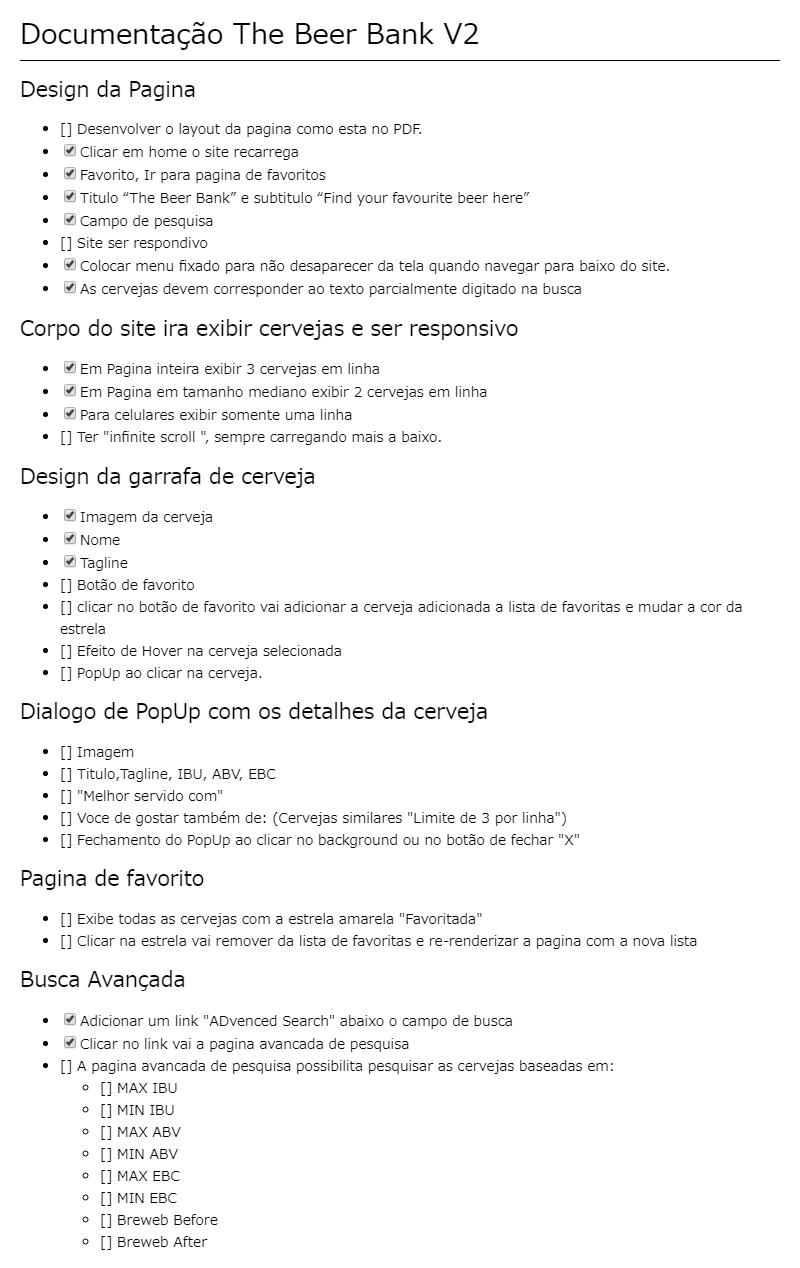
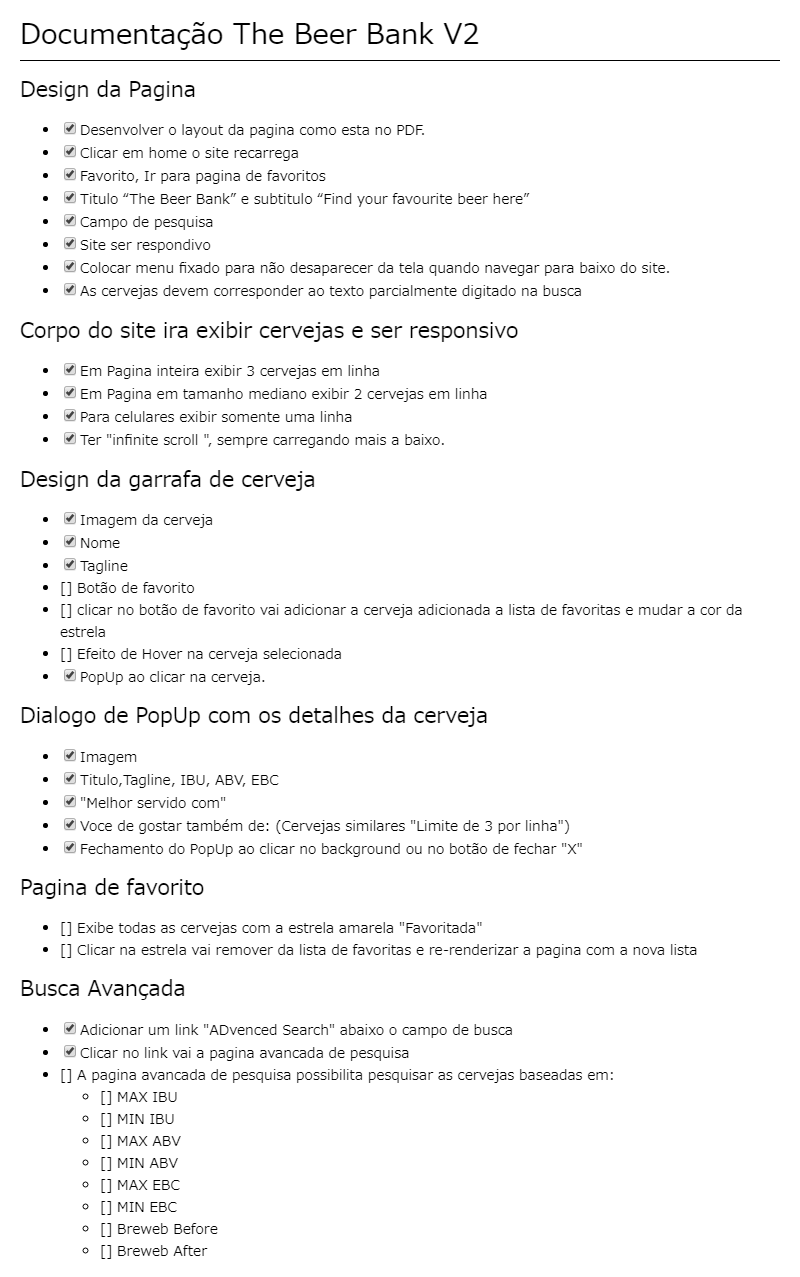
changes

diff --git a/js/script.js b/js/script.js
@@ -1,3 +1,29 @@
+var listaFovoritos = [];
+function addFavo(elemento) {
+	if(typeof(Storage) !== "undefined") {
+		if (sessionStorage.lista) {
+			listaFovoritos = JSON.parse(
+				sessionStorage.getItem("listaFovoritos"));
+		} else {
+			listaFovoritos = [];
+		}		
+			if(listaFovoritos.includes(elemento)){
+				listaFovoritos.splice(listaFovoritos.indexOf(elemento),1);
+			}else{
+				listaFovoritos.push(elemento)
+			}			
+			
+		sessionStorage.listaFovoritos = JSON.stringify(listaFovoritos);
+	}
+}
+
+
+
+var fav = listaFovoritos.filter(function id (){
+	return listaFovoritos.includes9item.id
+});
+
+
 const todasCervejas = [];
 var i = 2;
 /*
@@ -50,7 +76,7 @@ function escrever(data) {
                             `
 		<div class="col-lg-4 col-md-6 col-sm-12 mt-4 ">
 		 <div class="card " style="width: 18rem;" button type="button"  data-toggle="modal" data-target="#modalQuickView${element.id}">
-	   
+						<a><i class="fa fa-star-o two" aria-hidden="true" onclick="addFavo(${element.id})"></i></a>
 			<img class="card-img-top smallimg" src="${element.image_url}">
 			<div class="card-body ">
 				<h5 class="card-title">${element.name}</h5>
@@ -158,8 +184,8 @@ function escrever(data) {
 					  </div>
 				  </div>
 
-												<!-- FIM DO MODAL --> 
-		  
+												<!-- FIM DO MODAL 
+												-->
 			</div>
 		</div>
 	</div>`

diff --git a/index.html b/index.html
@@ -7,9 +7,12 @@
     <meta name="viewport" content="width=device-width, initial-scale=1, shrink-to-fit=no">
 
     <!-- Bootstrap CSS -->
+    <link href="https://stackpath.bootstrapcdn.com/font-awesome/4.7.0/css/font-awesome.min.css" rel="stylesheet" integrity="sha384-wvfXpqpZZVQGK6TAh5PVlGOfQNHSoD2xbE+QkPxCAFlNEevoEH3Sl0sibVcOQVnN" crossorigin="anonymous">
     <link rel="stylesheet" href="css/easy-autocomplete.css">
     <link rel="stylesheet" href="css/bootstrap.css">
+    
     <link rel="stylesheet" href="css/style.css">
+    
 
     <title>The Beer Bank</title>
 </head>

diff --git a/css/style.css b/css/style.css
@@ -74,8 +74,16 @@ h1 {
     width: 30%;
     height: 60%;
     object-fit: contain;
+    -webkit-transform: scale(1.1);
+    -moz-transform: scale(1.1);
+    -o-transform: scale(1.1);
+    -ms-transform: scale(1.1);
+    transform: scale(1.1);
 }
 
+.two{
+    z-index: 999999;
+}
 .tituloh6 {
     font-weight: bold;
     font-size: 1.75em;

diff --git a/doc.md b/doc.md
@@ -1,12 +1,12 @@
 # Documentação The Beer Bank V2
 
 ## Design da Pagina
-- [] Desenvolver o layout da pagina como esta no PDF.
+- [x] Desenvolver o layout da pagina como esta no PDF.
 - [x] Clicar em home o site recarrega
 - [x] Favorito, Ir para pagina de favoritos
 - [x] Titulo “The Beer Bank” e subtitulo “Find your favourite beer here”
 - [x] Campo de pesquisa
-- [] Site ser respondivo
+- [x] Site ser respondivo
 - [x] Colocar menu fixado para não desaparecer da tela quando navegar para baixo do site.
 - [x] As cervejas devem corresponder ao texto parcialmente digitado na busca
 
@@ -15,7 +15,7 @@
 - [x] Em Pagina inteira exibir 3 cervejas em linha
 - [x] Em Pagina em tamanho mediano exibir 2 cervejas em linha
 - [x] Para celulares exibir somente uma linha
-- [] Ter "infinite scroll ", sempre carregando mais a baixo.
+- [x] Ter "infinite scroll ", sempre carregando mais a baixo.
 
 ## Design da garrafa de cerveja
 
@@ -25,15 +25,15 @@
 - [] Botão de favorito
 - [] clicar no botão de favorito vai adicionar a cerveja adicionada a lista de favoritas e mudar a cor da estrela
 - [] Efeito de Hover na cerveja selecionada
-- [] PopUp ao clicar na cerveja.
+- [x] PopUp ao clicar na cerveja.
 
 ## Dialogo de PopUp com os detalhes da cerveja
 
-- [] Imagem
-- [] Titulo,Tagline, IBU, ABV, EBC
-- [] "Melhor servido com"
-- [] Voce de gostar também de: (Cervejas similares "Limite de 3 por linha")
-- [] Fechamento do PopUp ao clicar no background ou no botão de fechar "X"
+- [x] Imagem
+- [x] Titulo,Tagline, IBU, ABV, EBC
+- [x] "Melhor servido com"
+- [x] Voce de gostar também de: (Cervejas similares "Limite de 3 por linha")
+- [x] Fechamento do PopUp ao clicar no background ou no botão de fechar "X"
 
 ## Pagina de favorito
 
